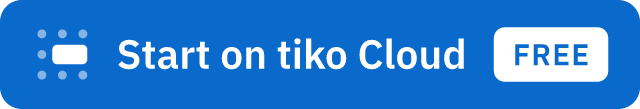
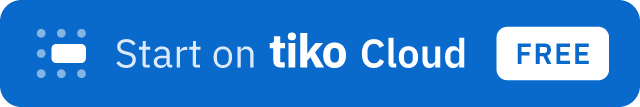
fix(brand): make tiko stand out on the Cloud button and animate the FREE tag

diff --git a/brand/generate.py b/brand/generate.py
@@ -271,32 +271,47 @@ for dark in (False, True):
 # Button -------------------------------------------------------------------
 
 def cloud_button():
-    """README button for tiko Cloud; the card shrinks to a dot and grows back every 6 s."""
+    """README button for tiko Cloud. Every 6 s the card shrinks to a dot and grows back,
+    then the FREE tag pops and a light band runs across it."""
     h, pad, em, gap = 40, 12, 22, 9
-    label, ls = "Start on tiko Cloud", 15
+    bold = Face(PLEX, 700)
+    parts = [(SANS4, "Start on", 15, 0.0, 0.85), (bold, "tiko", 17.5, WM_TRACK, 1), (SANS6, "Cloud", 15, 0.0, 1)]
+    space = 4.5
     tag, ts = "FREE", 11
-    lw = SANS6.width(label, ls)
     gw = SANS6.width(tag, ts, 0.04) + 14
     gh = 20
-    w = round(pad + em + gap + lw + 10 + gw + pad)
+    dur = 'dur="6s" repeatCount="indefinite"'
     frames = dict(x="10.6;10.6;13.6;10.6;10.6", y="10.8;10.8;13.6;10.8;10.8",
                   width="18.8;18.8;4.8;18.8;18.8", height="10.4;10.4;4.8;10.4;10.4",
                   rx="2.6;2.6;2.4;2.6;2.6")
     anim = "".join(
-        f'<animate attributeName="{a}" values="{v}" keyTimes="0;0.72;0.8;0.9;1" dur="6s" '
-        f'calcMode="spline" keySplines="0 0 1 1;0.4 0 0.2 1;0.2 0.8 0.2 1;0 0 1 1" repeatCount="indefinite"/>'
+        f'<animate attributeName="{a}" values="{v}" keyTimes="0;0.66;0.74;0.84;1" {dur} '
+        f'calcMode="spline" keySplines="0 0 1 1;0.4 0 0.2 1;0.2 0.8 0.2 1;0 0 1 1"/>'
         for a, v in frames.items())
     dots = "".join(f'<circle cx="{x}" cy="{y}" r="2.4" fill="#FFFFFF" fill-opacity="0.5"/>' for x, y in DOTS)
     emblem = f'{dots}<rect x="10.6" y="10.8" width="18.8" height="10.4" rx="2.6" fill="#FFFFFF">{anim}</rect>'
+    text, x = "", pad + em + gap
+    for face, word, size, track, op in parts:
+        o = f' fill-opacity="{op}"' if op < 1 else ""
+        text += f'<path d="{face.path(word, size, x, h / 2 + 15 * 0.35, track)}" fill="#FFFFFF"{o}/>'
+        x += face.width(word, size, track) + space
+    gx = x - space + 11
+    w = round(gx + gw + pad)
+    # The tag is drawn around its own centre so the pop scales in place.
+    pop = (f'<animateTransform attributeName="transform" type="scale" values="1;1;1.12;1;1" '
+           f'keyTimes="0;0.84;0.89;0.96;1" {dur} calcMode="spline" '
+           f'keySplines="0 0 1 1;0.2 0.8 0.2 1;0.4 0 0.2 1;0 0 1 1"/>')
+    band = (f'<rect x="{-gw / 2 - 12:.1f}" y="{-gh}" width="7" height="{gh * 2}" fill="{C["brand"]}" fill-opacity="0.22" '
+            f'transform="skewX(-20)"><animate attributeName="x" values="{-gw / 2 - 12:.1f};{-gw / 2 - 12:.1f};{gw / 2 + 12:.1f}" '
+            f'keyTimes="0;0.86;1" {dur}/></rect>')
+    free = (f'<clipPath id="t"><rect x="{-gw / 2:.1f}" y="{-gh / 2}" width="{gw:.1f}" height="{gh}" rx="4"/></clipPath>'
+            f'<g transform="translate({gx + gw / 2:.1f} {h / 2})"><g>{pop}'
+            f'<rect x="{-gw / 2:.1f}" y="{-gh / 2}" width="{gw:.1f}" height="{gh}" rx="4" fill="#FFFFFF"/>'
+            f'<path d="{SANS6.path(tag, ts, -gw / 2 + 7, ts * 0.36, 0.04)}" fill="{C["brand"]}"/>'
+            f'<g clip-path="url(#t)">{band}</g></g></g>')
     body = f'<rect width="{w}" height="{h}" rx="8" fill="{C["brand"]}"/>'
-    body += placed(emblem, pad, (h - em) / 2, em)
-    tx = pad + em + gap
-    body += f'<path d="{SANS6.path(label, ls, tx, h / 2 + ls * 0.35)}" fill="#FFFFFF"/>'
-    gx = tx + lw + 10
-    body += f'<rect x="{gx:.1f}" y="{(h - gh) / 2}" width="{gw:.1f}" height="{gh}" rx="4" fill="#FFFFFF"/>'
-    body += f'<path d="{SANS6.path(tag, ts, gx + 7, h / 2 + ts * 0.36, 0.04)}" fill="{C["brand"]}"/>'
+    body += placed(emblem, pad, (h - em) / 2, em) + text + free
     return svg(w, h, body, "Start on tiko Cloud, free")
-
 
 write("button/tiko-cloud-button.svg", cloud_button(), [("tiko-cloud-button.png", 640)])
 
